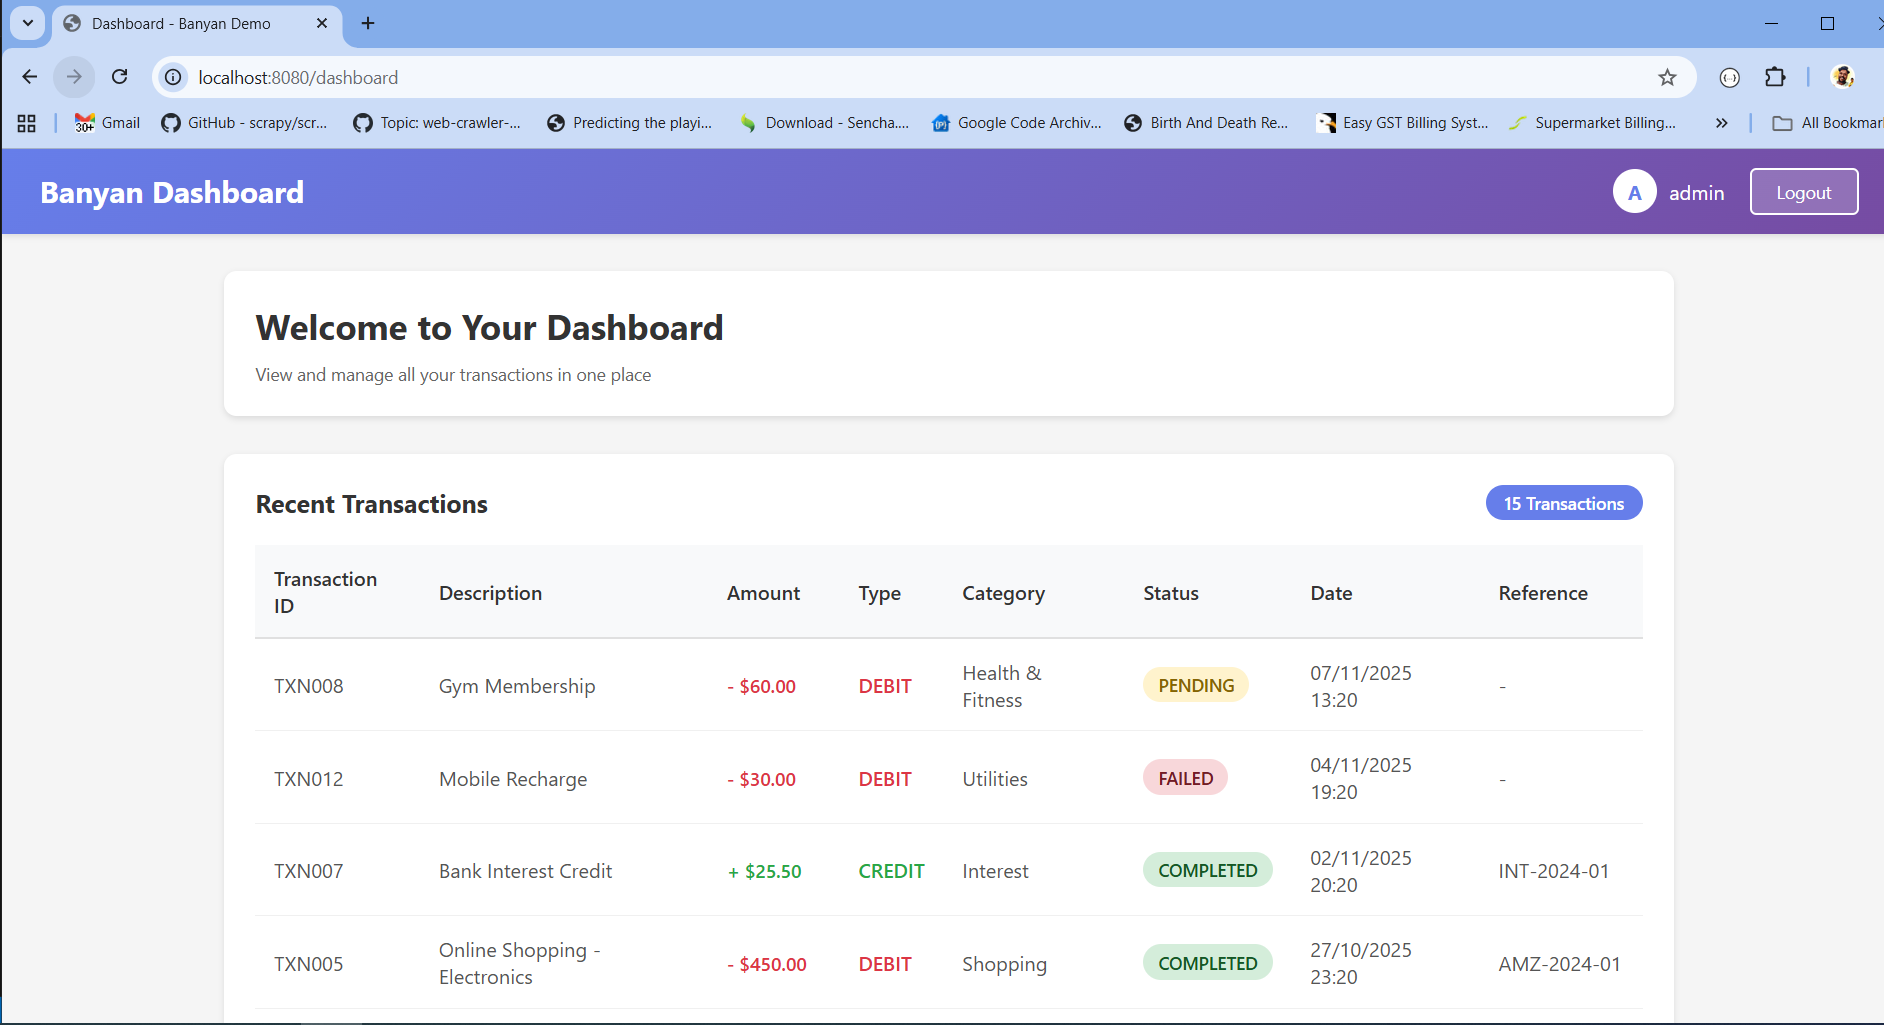
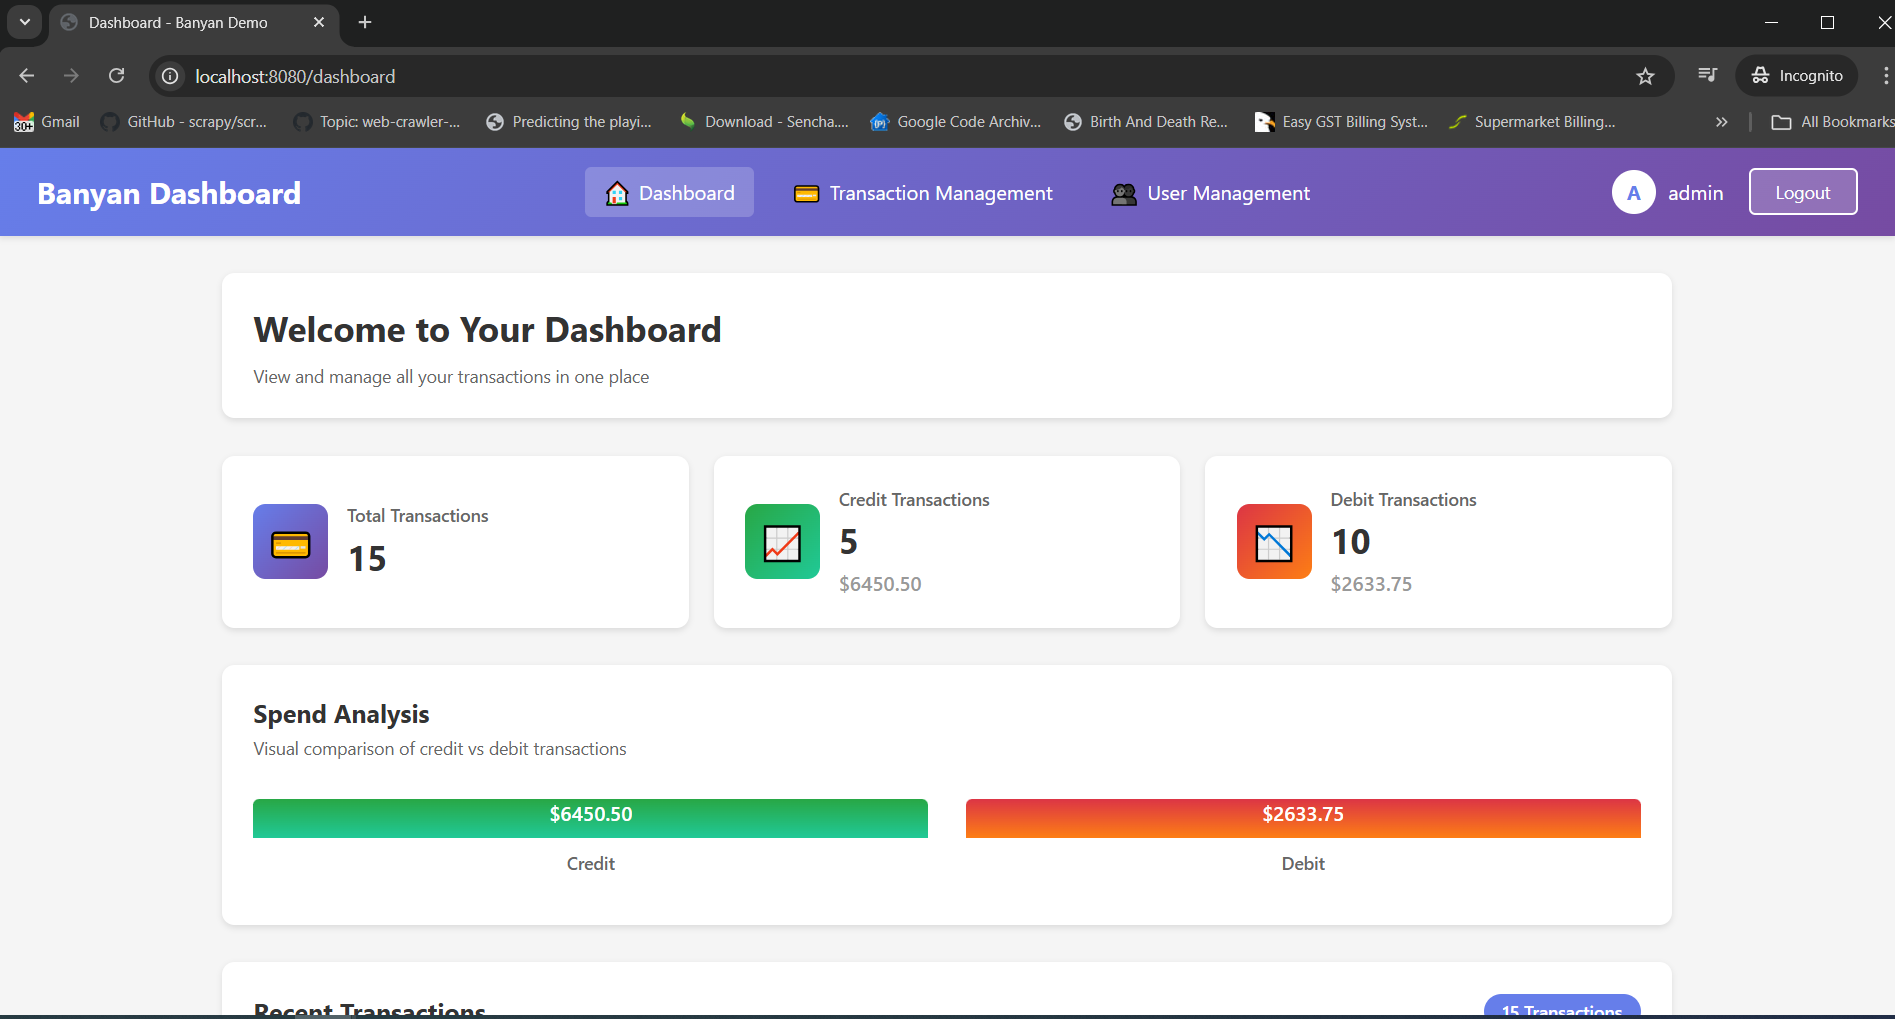
result updated.

diff --git a/README.md b/README.md
@@ -92,6 +92,71 @@ The dashboard displays:
 - Logout functionality
 - Fully responsive design for all devices
 
+### Transaction Management
+![Transaction Management](docs/images/transaction-management.PNG)
+
+The transaction management page features:
+- Full CRUD operations for transactions
+- List view with all transaction details
+- Color-coded rows based on transaction status and type:
+  - Green background for completed transactions
+  - Yellow background for pending transactions
+  - Red background for failed transactions
+- Action buttons for each transaction (Edit, Delete)
+- Add new transaction button
+- Real-time data loading from API
+
+#### Add/Edit Transaction Modal
+![Add Transaction](docs/images/transaction-add.PNG)
+![Edit Transaction](docs/images/transaction-edit.PNG)
+
+The transaction modal provides:
+- Form to add new transactions or edit existing ones
+- Fields for:
+  - Description
+  - Amount
+  - Type (Credit/Debit)
+  - Category
+  - Status (Pending/Completed/Failed)
+  - Reference number
+- Form validation
+- Save and Cancel actions
+
+### User Management (Admin Only)
+![User Management](docs/images/user-management.PNG)
+
+The user management page includes:
+- Full CRUD operations for users
+- List view with user details:
+  - User ID
+  - Username
+  - Full Name
+  - Email
+  - Role (Admin/User)
+  - Account status (Active/Inactive)
+- Color-coded rows based on user status:
+  - Green background for active users
+  - Red background for inactive users
+- Action buttons for each user (Edit, Toggle Status, Delete)
+- Add new user button
+- Role-based badges
+
+#### Add/Edit User Modal
+![Add User](docs/images/user-management-add.PNG)
+![Edit User](docs/images/user-management-edit.PNG)
+
+The user modal provides:
+- Form to add new users or edit existing ones
+- Fields for:
+  - Username
+  - Password (optional when editing)
+  - Full Name
+  - Email
+  - Role (User/Admin)
+  - Account enabled checkbox
+- Form validation
+- Save and Cancel actions
+
 ## 👤 Demo Credentials
 
 ### Admin User
